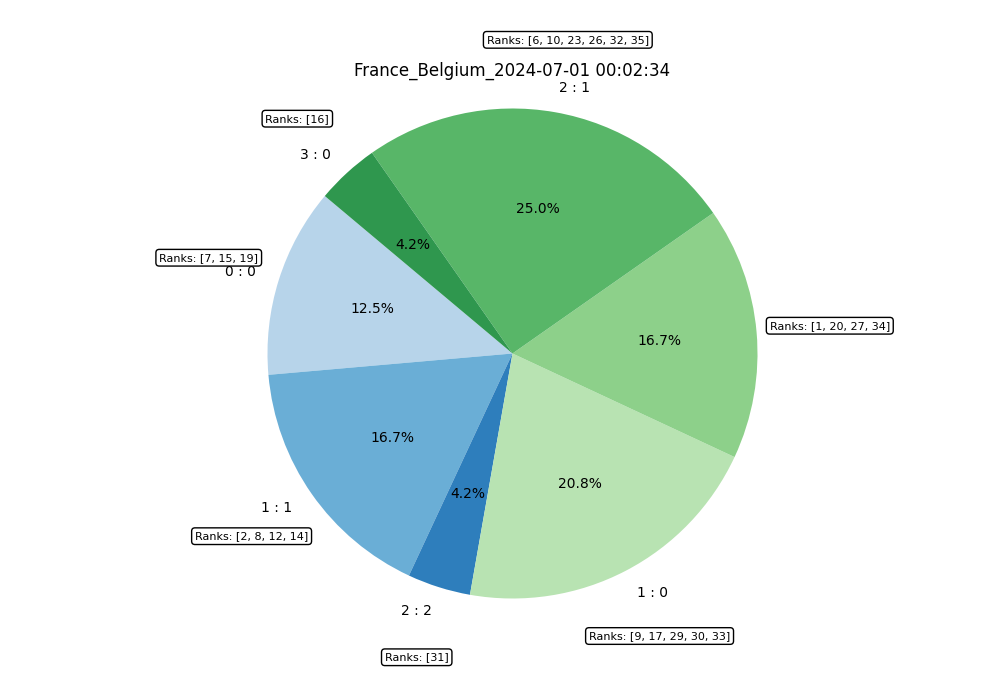
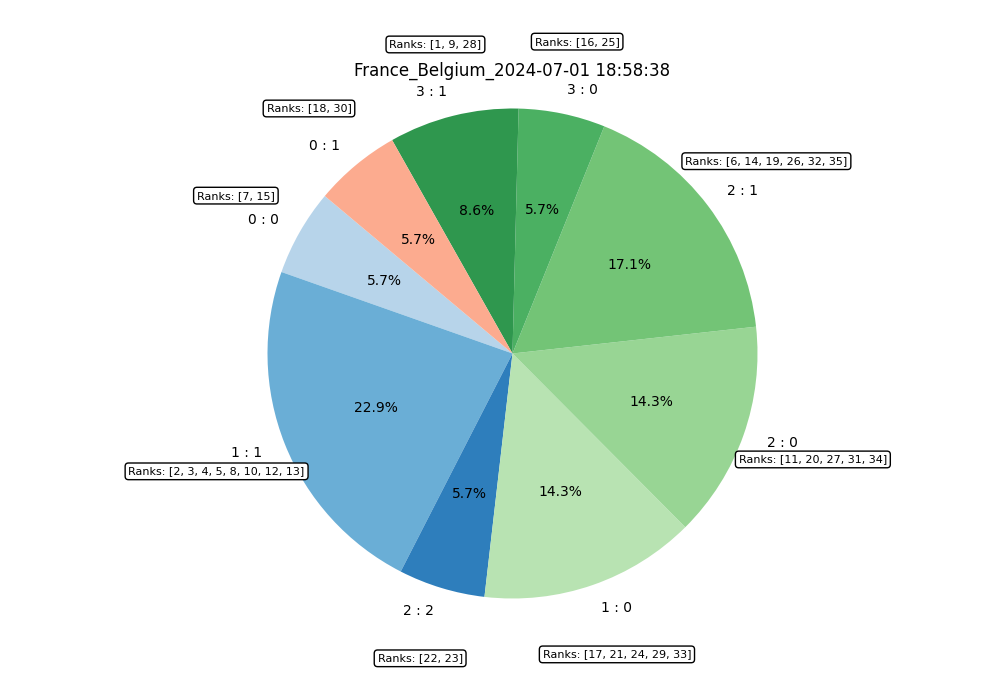
Quarterfinals

diff --git a/spot_5.py b/spot_5.py
@@ -223,6 +223,10 @@ def update_plots(ids):
 
 
 """
+ids = ['42', '43', '44', '45']
+update_plots(ids)
+"""
+"""
 ids = ['38', '39', '40', '41']
 update_plots(ids)
 """
